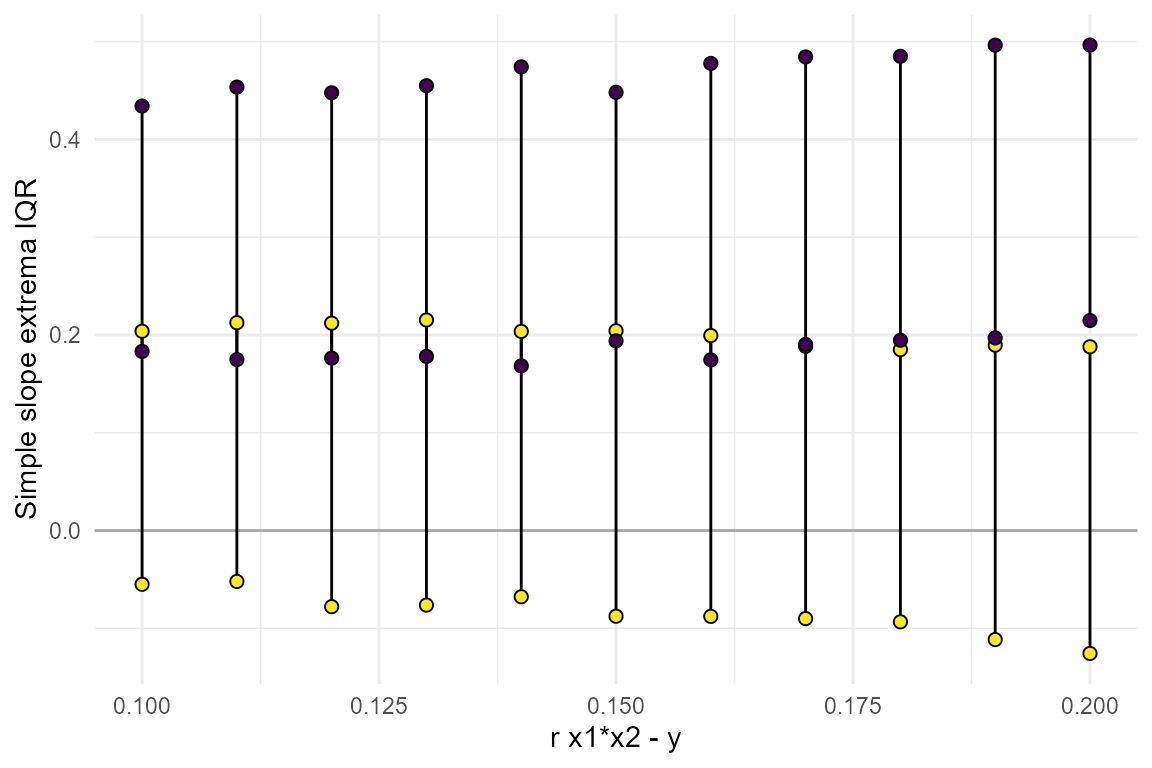
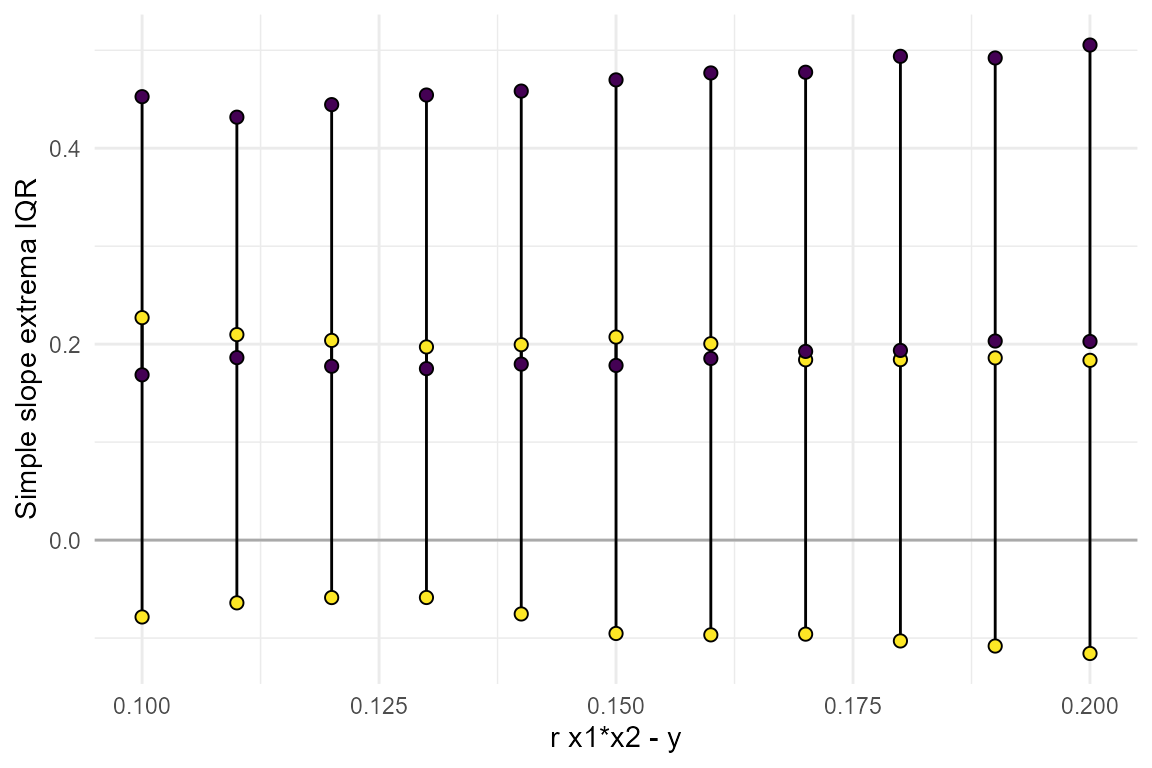
Update to 0.2.4

diff --git a/docs/authors.html b/docs/authors.html
@@ -16,7 +16,7 @@
     
     <a class="navbar-brand me-2" href="index.html">InteractionPoweR</a>
 
-    <small class="nav-text text-muted me-auto" data-bs-toggle="tooltip" data-bs-placement="bottom" title="">0.2.3</small>
+    <small class="nav-text text-muted me-auto" data-bs-toggle="tooltip" data-bs-placement="bottom" title="">0.2.4</small>
 
     
     <button class="navbar-toggler" type="button" data-bs-toggle="collapse" data-bs-target="#navbar" aria-controls="navbar" aria-expanded="false" aria-label="Toggle navigation">
@@ -109,6 +109,20 @@
   volume = {6},
   number = {3},
   year = {2023},
+}</pre>
+      <p>Castillo A, Miller JD, Vize CE, Baranger DAA, Lynam DR (2026).
+“When Do Interaction/Moderation Effects Stabilize in Linear Regression?”
+<em>Advances in Methods and Practices in Psychological Science</em>, <b>9</b>(1).
+<a href="https://doi.org/10.1177/25152459251407860" class="external-link">doi:10.1177/25152459251407860</a>. 
+</p>
+      <pre>@Article{,
+  author = {Andrew Castillo and Joshua D. Miller and Colin E. Vize and David A. A. Baranger and Donald R. Lynam},
+  doi = {10.1177/25152459251407860},
+  journal = {Advances in Methods and Practices in Psychological Science},
+  title = {When Do Interaction/Moderation Effects Stabilize in Linear Regression?},
+  volume = {9},
+  number = {1},
+  year = {2026},
 }</pre>
     </div>
   </main><aside class="col-md-3"><nav id="toc"><h2>On this page</h2>

diff --git a/docs/index.html b/docs/index.html
@@ -42,7 +42,7 @@
     
     <a class="navbar-brand me-2" href="index.html">InteractionPoweR</a>
 
-    <small class="nav-text text-muted me-auto" data-bs-toggle="tooltip" data-bs-placement="bottom" title="">0.2.3</small>
+    <small class="nav-text text-muted me-auto" data-bs-toggle="tooltip" data-bs-placement="bottom" title="">0.2.4</small>
 
     
     <button class="navbar-toggler" type="button" data-bs-toggle="collapse" data-bs-target="#navbar" aria-controls="navbar" aria-expanded="false" aria-label="Toggle navigation">
@@ -97,7 +97,7 @@
 <!-- badges: end -->
 <p>The <a href="https://dbaranger.github.io/InteractionPoweR/">InteractionPoweR</a> package conducts power analyses for regression models in cross-sectional data sets where the term of interest is an interaction between two or three variables, also known as ‘moderation’ analyses. The package includes functions for simulating data sets, conducting power analyses, conducting stability analyses, and plotting and interpreting results. Notable package features include (1) the ability to compute power for interactions between two continuous variables, (2) effect sizes are all specified as the cross-sectional Pearson’s correlation, (3) simulations do not assume that the interacting variables are independent, (4) any variable in the model, including the outcome, can have anywhere from 2 (i.e., binary) to 20 discrete values, and (5) analyses can incorporate the effects of reliability, both of the interacting variables, as well as of the outcome variable.</p>
 <p>Stability analyses for two-way interactions between continuous variables have been recently added. These include a new search function which returns the sample size or interaction effect size at which results stabilize.</p>
-<p><strong>For more information see our <a href="https://doi.org/10.1177/25152459231187531" class="external-link">tutorial paper</a>, the package <a href="https://dbaranger.github.io/InteractionPoweR/articles/articles/InteractionPoweRvignette.html">vignette</a>, and the <a href="https://dbaranger.github.io/InteractionPoweR/articles/articles/CommonQuestions.html">FAQ</a>.</strong></p>
+<p><strong>For more information see our <a href="https://doi.org/10.1177/25152459231187531" class="external-link">tutorial paper</a>, the package <a href="https://dbaranger.github.io/InteractionPoweR/articles/articles/InteractionPoweRvignette.html">vignette</a>, and the <a href="https://dbaranger.github.io/InteractionPoweR/articles/articles/CommonQuestions.html">FAQ</a>. Information on stability analyses can be found in our <a href="https://doi.org/10.1177/25152459251407860" class="external-link">new paper</a></strong></p>
 <p><strong>Web apps:</strong></p>
 <ul>
 <li>Simulation-based power 2-way: We have a <a href="https://mfinsaas.shinyapps.io/InteractionPoweR/" class="external-link"><strong>Shiny app</strong></a> which implements the major functions for simulation-based power analyses in a user-friendly point-and-click interface.</li>
@@ -143,7 +143,7 @@
 <div class="sourceCode" id="cb4"><pre class="downlit sourceCode r">
 <code class="sourceCode R"><span><span class="fu"><a href="https://rdrr.io/r/base/Random.html" class="external-link">set.seed</a></span><span class="op">(</span><span class="fl">2022</span><span class="op">)</span></span>
 <span><span class="va">test_power</span><span class="op">&lt;-</span><span class="fu"><a href="reference/power_interaction.html">power_interaction</a></span><span class="op">(</span></span>
-<span>  n.iter <span class="op">=</span> <span class="fl">10000</span>,            <span class="co"># number of simulations per unique combination of input parameters</span></span>
+<span>  n.iter <span class="op">=</span> <span class="fl">1000</span>,            <span class="co"># number of simulations per unique combination of input parameters</span></span>
 <span>  alpha <span class="op">=</span> <span class="fl">0.05</span>,             <span class="co"># alpha, for the power analysis</span></span>
 <span>  N <span class="op">=</span> <span class="fl">350</span>,                  <span class="co"># sample size</span></span>
 <span>  r.x1x2.y <span class="op">=</span> <span class="fl">.15</span>,           <span class="co"># interaction effect to test (correlation between x1*x2 and y)</span></span>
@@ -155,15 +155,17 @@
 <span><span class="op">)</span></span>
 <span></span>
 <span><span class="va">test_power</span></span>
-<span><span class="co">#&gt;     N    pwr</span></span>
-<span><span class="co">#&gt; 1 350 0.8086</span></span></code></pre></div>
+<span><span class="co">#&gt;     N   pwr</span></span>
+<span><span class="co">#&gt; 1 350 0.815</span></span></code></pre></div>
 <p>The simulation’s accuracy will increase with more iterations.</p>
 </div>
 <div class="section level2">
 <h2 id="citation">Citation<a class="anchor" aria-label="anchor" href="#citation"></a>
 </h2>
 <p>If you use <a href="https://dbaranger.github.io/InteractionPoweR/">InteractionPoweR</a> in a publication, please cite our <a href="https://doi.org/10.1177/25152459231187531" class="external-link">tutorial paper</a>:</p>
-<p>Baranger DAA, Finsaas MC, Goldstein BL, Vize CE, Lynam DR, Olino TM (2023). “Tutorial: Power analyses for interaction effects in cross-sectional regressions.” <em>Advances in Methods and Practices in Psychological Science</em>. 6(3). doi: <a href="https://doi.org/10.1177/25152459231187531" class="external-link">10.1177/25152459231187531</a></p>
+<p>Baranger DAA, Finsaas MC, Goldstein BL, Vize CE, Lynam DR, Olino TM. “Tutorial: Power analyses for interaction effects in cross-sectional regressions.” <em>Advances in Methods and Practices in Psychological Science</em>. 2023; 6(3). doi: <a href="https://doi.org/10.1177/25152459231187531" class="external-link">10.1177/25152459231187531</a></p>
+<p>If you use our stability analyses for interactions in a paper, please cite our <a href="https://doi.org/10.1177/25152459251407860" class="external-link">paper on stability</a>:</p>
+<p>Castillo A, Miller JD, Vize C, Baranger DAA, Lynam DR. “When Do Interaction/Moderation Effects Stabilize in Linear Regression?” <em>Advances in Methods and Practices in Psychological Science</em>. 2026; 9(1). doi: <a href="https://doi.org/10.1177/25152459251407860" class="external-link">10.1177/25152459251407860</a></p>
 </div>
 </div>
   </main><aside class="col-md-3"><div class="links">

diff --git a/docs/articles/InteractionPoweR_Stability.html b/docs/articles/InteractionPoweR_Stability.html
@@ -42,7 +42,7 @@
     
     <a class="navbar-brand me-2" href="../index.html">InteractionPoweR</a>
 
-    <small class="nav-text text-muted me-auto" data-bs-toggle="tooltip" data-bs-placement="bottom" title="">0.2.3</small>
+    <small class="nav-text text-muted me-auto" data-bs-toggle="tooltip" data-bs-placement="bottom" title="">0.2.4</small>
 
     
     <button class="navbar-toggler" type="button" data-bs-toggle="collapse" data-bs-target="#navbar" aria-controls="navbar" aria-expanded="false" aria-label="Toggle navigation">
@@ -333,13 +333,13 @@ first.</p>
 <pre><code><span><span class="co">##   single.N rel.x1 rel.x2  rel.x1x2 rel.y r.x1x2.y r.x1.y r.x2.y r.x1.x2</span></span>
 <span><span class="co">## 1      100    0.8    0.8 0.6435644     1     0.15    0.2    0.2     0.1</span></span>
 <span><span class="co">##   obs.r.x1x2.y COS_pos.percents     COS_interval within_COS_interval</span></span>
-<span><span class="co">## 1    0.1203337         (50, 80) [0.0602, 0.1805]               0.476</span></span>
+<span><span class="co">## 1    0.1203337         (50, 80) [0.0602, 0.1805]               0.447</span></span>
 <span><span class="co">##   POS_determined_COS within_POS_determined_COS POS_determined_COS.percent</span></span>
-<span><span class="co">## 1   [-0.013, 0.2536]                       0.8                     110.77</span></span>
+<span><span class="co">## 1  [-0.0094, 0.2501]                       0.8                     107.83</span></span>
 <span><span class="co">##   sign_error_rate     power r.x1x2.y_to_be_stable_at_single.N</span></span>
-<span><span class="co">## 1           0.128 0.2273492                         0.2995293</span></span>
+<span><span class="co">## 1           0.122 0.2273492                         0.2966025</span></span>
 <span><span class="co">##   power_to_be_stable</span></span>
-<span><span class="co">## 1           0.675739</span></span></code></pre>
+<span><span class="co">## 1          0.6672075</span></span></code></pre>
 <p>This output indicates that at N = 100, only ~47.3% of estimates fall
 within the specified COS of 50% around the expected interaction effect
 (0.1203, 0.15 before attenuation), suggesting the sample size is
@@ -427,7 +427,7 @@ if the reliability and correlations justify it.</p>
 <pre><code><span><span class="co">##   rel.x1 rel.x2  rel.x1x2 rel.y r.x1x2.y r.x1.y r.x2.y r.x1.x2 obs.r.x1x2.y</span></span>
 <span><span class="co">## 1    0.8    0.8 0.6435644     1     0.15    0.2    0.2     0.1    0.1203337</span></span>
 <span><span class="co">##   COS_pos.percents     COS_interval POS_samplesize POS_power</span></span>
-<span><span class="co">## 1         (50, 80) [0.0602, 0.1805]            421 0.7159145</span></span></code></pre>
+<span><span class="co">## 1         (50, 80) [0.0602, 0.1805]            423 0.7179701</span></span></code></pre>
 <p>This run performs a binary search to find the smallest N at which 80%
 of estimates fall within <span class="math inline">\(\pm 50\%\)</span>
 of the expected interaction effect size.</p>

diff --git a/docs/reference/test_interaction.html b/docs/reference/test_interaction.html
@@ -16,7 +16,7 @@
     
     <a class="navbar-brand me-2" href="../index.html">InteractionPoweR</a>
 
-    <small class="nav-text text-muted me-auto" data-bs-toggle="tooltip" data-bs-placement="bottom" title="">0.2.3</small>
+    <small class="nav-text text-muted me-auto" data-bs-toggle="tooltip" data-bs-placement="bottom" title="">0.2.4</small>
 
     
     <button class="navbar-toggler" type="button" data-bs-toggle="collapse" data-bs-target="#navbar" aria-controls="navbar" aria-expanded="false" aria-label="Toggle navigation">
@@ -112,10 +112,10 @@ If q=3 then the two slopes are y~x1 for the bottom 33% of x2, and the top 33% of
     <div class="sourceCode"><pre class="sourceCode r"><code><span class="r-in"><span><span class="va">dataset</span> <span class="op">&lt;-</span> <span class="fu"><a href="generate_interaction.html">generate_interaction</a></span><span class="op">(</span>N <span class="op">=</span> <span class="fl">250</span>,r.x1.y <span class="op">=</span> <span class="fl">0</span>,r.x2.y <span class="op">=</span> <span class="fl">.1</span>,r.x1x2.y <span class="op">=</span> <span class="op">-</span><span class="fl">.2</span>,r.x1.x2 <span class="op">=</span> <span class="fl">.3</span><span class="op">)</span></span></span>
 <span class="r-in"><span><span class="fu">test_interaction</span><span class="op">(</span>data <span class="op">=</span> <span class="va">dataset</span>, alpha<span class="op">=</span><span class="fl">0.05</span>, q<span class="op">=</span><span class="fl">2</span><span class="op">)</span></span></span>
 <span class="r-out co"><span class="r-pr">#&gt;</span> $linear.model</span>
-<span class="r-out co"><span class="r-pr">#&gt;</span>         Estimate Std. Error    t value     Pr(&gt;|t|)</span>
-<span class="r-out co"><span class="r-pr">#&gt;</span> x1    0.01066427 0.06508712  0.1638460 0.8699868878</span>
-<span class="r-out co"><span class="r-pr">#&gt;</span> x2    0.01803371 0.06508365  0.2770852 0.7819474049</span>
-<span class="r-out co"><span class="r-pr">#&gt;</span> x1x2 -0.22203629 0.06100056 -3.6399056 0.0003324027</span>
+<span class="r-out co"><span class="r-pr">#&gt;</span>          Estimate Std. Error     t value     Pr(&gt;|t|)</span>
+<span class="r-out co"><span class="r-pr">#&gt;</span> x1   -0.004107034 0.06399475 -0.06417767 9.488809e-01</span>
+<span class="r-out co"><span class="r-pr">#&gt;</span> x2    0.138731281 0.06390510  2.17089542 3.089570e-02</span>
+<span class="r-out co"><span class="r-pr">#&gt;</span> x1x2 -0.243264153 0.05884106 -4.13425839 4.887912e-05</span>
 <span class="r-out co"><span class="r-pr">#&gt;</span> </span>
 </code></pre></div>
     </div>

diff --git a/docs/reference/run_pos_power_search.html b/docs/reference/run_pos_power_search.html
@@ -16,7 +16,7 @@
     
     <a class="navbar-brand me-2" href="../index.html">InteractionPoweR</a>
 
-    <small class="nav-text text-muted me-auto" data-bs-toggle="tooltip" data-bs-placement="bottom" title="">0.2.3</small>
+    <small class="nav-text text-muted me-auto" data-bs-toggle="tooltip" data-bs-placement="bottom" title="">0.2.4</small>
 
     
     <button class="navbar-toggler" type="button" data-bs-toggle="collapse" data-bs-target="#navbar" aria-controls="navbar" aria-expanded="false" aria-label="Toggle navigation">
@@ -178,14 +178,9 @@ If the user inputs single.N as a numeric whole number greater than 3, the second
 
     <div class="section level2">
     <h2 id="ref-examples">Examples<a class="anchor" aria-label="anchor" href="#ref-examples"></a></h2>
-    <div class="sourceCode"><pre class="sourceCode r"><code><span class="r-in"><span><span class="fu">run_pos_power_search</span><span class="op">(</span>r.x1.y <span class="op">=</span> <span class="fl">0.2</span>, r.x2.y <span class="op">=</span> <span class="fl">0.2</span>, r.x1x2.y <span class="op">=</span> <span class="fl">0.15</span>, r.x1.x2 <span class="op">=</span> <span class="fl">0.1</span>,</span></span>
+    <div class="sourceCode"><pre class="sourceCode r"><code><span class="r-in"><span><span class="kw">if</span> <span class="op">(</span><span class="cn">FALSE</span><span class="op">)</span> <span class="fu">run_pos_power_search</span><span class="op">(</span>r.x1.y <span class="op">=</span> <span class="fl">0.2</span>, r.x2.y <span class="op">=</span> <span class="fl">0.2</span>, r.x1x2.y <span class="op">=</span> <span class="fl">0.15</span>, r.x1.x2 <span class="op">=</span> <span class="fl">0.1</span>,</span></span>
 <span class="r-in"><span>rel.x1 <span class="op">=</span> <span class="fl">0.8</span>, rel.x2 <span class="op">=</span> <span class="fl">0.8</span>,start.power <span class="op">=</span> <span class="fl">0.8</span>, step <span class="op">=</span> <span class="cn">NULL</span>, n.datasets <span class="op">=</span> <span class="fl">1000</span>,</span></span>
 <span class="r-in"><span>lower.bound <span class="op">=</span> <span class="cn">NULL</span>, upper.bound <span class="op">=</span> <span class="fl">500</span>, cos.width <span class="op">=</span> <span class="fl">0.5</span>, pos.percent <span class="op">=</span> <span class="fl">0.8</span><span class="op">)</span></span></span>
-<span class="r-msg co"><span class="r-pr">#&gt;</span> The sample size at the start.power of 0.8 is 515. Re-running the search with lower.bound set to 258 and upper bound set to 515. </span>
-<span class="r-out co"><span class="r-pr">#&gt;</span>   rel.x1 rel.x2  rel.x1x2 rel.y r.x1x2.y r.x1.y r.x2.y r.x1.x2 obs.r.x1x2.y</span>
-<span class="r-out co"><span class="r-pr">#&gt;</span> 1    0.8    0.8 0.6435644     1     0.15    0.2    0.2     0.1    0.1203337</span>
-<span class="r-out co"><span class="r-pr">#&gt;</span>   COS_pos.percents     COS_interval POS_samplesize POS_power</span>
-<span class="r-out co"><span class="r-pr">#&gt;</span> 1         (50, 80) [0.0602, 0.1805]            459 0.7529432</span>
 </code></pre></div>
     </div>
   </main><aside class="col-md-3"><nav id="toc"><h2>On this page</h2>

diff --git a/docs/reference/power_interaction_3way_r2.html b/docs/reference/power_interaction_3way_r2.html
@@ -1,5 +1,5 @@
 <!DOCTYPE html>
-<!-- Generated by pkgdown: do not edit by hand --><html lang="en"><head><meta http-equiv="Content-Type" content="text/html; charset=UTF-8"><meta charset="utf-8"><meta http-equiv="X-UA-Compatible" content="IE=edge"><meta name="viewport" content="width=device-width, initial-scale=1, shrink-to-fit=no"><meta name="description" content="Power analysis for 3-way interaction models, computed via change in R2. Valid for interactions with continuous, normally distributed, variables. Either b.x1x2x3 or f2 can be used to specify the magnitude of the interaction effect size."><title>Analytic power analysis for 3-way interactions — power_interaction_3way_r2 • InteractionPoweR</title><!-- favicons --><link rel="icon" type="image/png" sizes="16x16" href="../favicon-16x16.png"><link rel="icon" type="image/png" sizes="32x32" href="../favicon-32x32.png"><link rel="apple-touch-icon" type="image/png" sizes="180x180" href="../apple-touch-icon.png"><link rel="apple-touch-icon" type="image/png" sizes="120x120" href="../apple-touch-icon-120x120.png"><link rel="apple-touch-icon" type="image/png" sizes="76x76" href="../apple-touch-icon-76x76.png"><link rel="apple-touch-icon" type="image/png" sizes="60x60" href="../apple-touch-icon-60x60.png"><script src="../deps/jquery-3.6.0/jquery-3.6.0.min.js"></script><meta name="viewport" content="width=device-width, initial-scale=1, shrink-to-fit=no"><link href="../deps/bootstrap-5.3.1/bootstrap.min.css" rel="stylesheet"><script src="../deps/bootstrap-5.3.1/bootstrap.bundle.min.js"></script><!-- Font Awesome icons --><link rel="stylesheet" href="https://cdnjs.cloudflare.com/ajax/libs/font-awesome/5.12.1/css/all.min.css" integrity="sha256-mmgLkCYLUQbXn0B1SRqzHar6dCnv9oZFPEC1g1cwlkk=" crossorigin="anonymous"><link rel="stylesheet" href="https://cdnjs.cloudflare.com/ajax/libs/font-awesome/5.12.1/css/v4-shims.min.css" integrity="sha256-wZjR52fzng1pJHwx4aV2AO3yyTOXrcDW7jBpJtTwVxw=" crossorigin="anonymous"><!-- bootstrap-toc --><script src="https://cdn.jsdelivr.net/gh/afeld/bootstrap-toc@v1.0.1/dist/bootstrap-toc.min.js" integrity="sha256-4veVQbu7//Lk5TSmc7YV48MxtMy98e26cf5MrgZYnwo=" crossorigin="anonymous"></script><!-- headroom.js --><script src="https://cdnjs.cloudflare.com/ajax/libs/headroom/0.11.0/headroom.min.js" integrity="sha256-AsUX4SJE1+yuDu5+mAVzJbuYNPHj/WroHuZ8Ir/CkE0=" crossorigin="anonymous"></script><script src="https://cdnjs.cloudflare.com/ajax/libs/headroom/0.11.0/jQuery.headroom.min.js" integrity="sha256-ZX/yNShbjqsohH1k95liqY9Gd8uOiE1S4vZc+9KQ1K4=" crossorigin="anonymous"></script><!-- clipboard.js --><script src="https://cdnjs.cloudflare.com/ajax/libs/clipboard.js/2.0.6/clipboard.min.js" integrity="sha256-inc5kl9MA1hkeYUt+EC3BhlIgyp/2jDIyBLS6k3UxPI=" crossorigin="anonymous"></script><!-- search --><script src="https://cdnjs.cloudflare.com/ajax/libs/fuse.js/6.4.6/fuse.js" integrity="sha512-zv6Ywkjyktsohkbp9bb45V6tEMoWhzFzXis+LrMehmJZZSys19Yxf1dopHx7WzIKxr5tK2dVcYmaCk2uqdjF4A==" crossorigin="anonymous"></script><script src="https://cdnjs.cloudflare.com/ajax/libs/autocomplete.js/0.38.0/autocomplete.jquery.min.js" integrity="sha512-GU9ayf+66Xx2TmpxqJpliWbT5PiGYxpaG8rfnBEk1LL8l1KGkRShhngwdXK1UgqhAzWpZHSiYPc09/NwDQIGyg==" crossorigin="anonymous"></script><script src="https://cdnjs.cloudflare.com/ajax/libs/mark.js/8.11.1/mark.min.js" integrity="sha512-5CYOlHXGh6QpOFA/TeTylKLWfB3ftPsde7AnmhuitiTX4K5SqCLBeKro6sPS8ilsz1Q4NRx3v8Ko2IBiszzdww==" crossorigin="anonymous"></script><!-- pkgdown --><script src="../pkgdown.js"></script><meta property="og:title" content="Analytic power analysis for 3-way interactions — power_interaction_3way_r2"><meta property="og:description" content="Power analysis for 3-way interaction models, computed via change in R2. Valid for interactions with continuous, normally distributed, variables. Either b.x1x2x3 or f2 can be used to specify the magnitude of the interaction effect size."><meta property="og:image" content="https://dbaranger.github.io/InteractionPoweR/logo.png"><meta name="twitter:card" content="summary"><meta name="twitter:creator" content="@David_Baranger"><meta name="twitter:site" content="@David_Baranger"><!-- mathjax --><script src="https://cdnjs.cloudflare.com/ajax/libs/mathjax/2.7.5/MathJax.js" integrity="sha256-nvJJv9wWKEm88qvoQl9ekL2J+k/RWIsaSScxxlsrv8k=" crossorigin="anonymous"></script><script src="https://cdnjs.cloudflare.com/ajax/libs/mathjax/2.7.5/config/TeX-AMS-MML_HTMLorMML.js" integrity="sha256-84DKXVJXs0/F8OTMzX4UR909+jtl4G7SPypPavF+GfA=" crossorigin="anonymous"></script><!--[if lt IE 9]>
+<!-- Generated by pkgdown: do not edit by hand --><html lang="en"><head><meta http-equiv="Content-Type" content="text/html; charset=UTF-8"><meta charset="utf-8"><meta http-equiv="X-UA-Compatible" content="IE=edge"><meta name="viewport" content="width=device-width, initial-scale=1, shrink-to-fit=no"><meta name="description" content="Power analysis for 3-way interaction models, computed via change in R2. Valid for interactions with continuous, normally distributed, variables. b.x1x2x3 is used to specify the magnitude of the interaction effect size."><title>Analytic power analysis for 3-way interactions — power_interaction_3way_r2 • InteractionPoweR</title><!-- favicons --><link rel="icon" type="image/png" sizes="16x16" href="../favicon-16x16.png"><link rel="icon" type="image/png" sizes="32x32" href="../favicon-32x32.png"><link rel="apple-touch-icon" type="image/png" sizes="180x180" href="../apple-touch-icon.png"><link rel="apple-touch-icon" type="image/png" sizes="120x120" href="../apple-touch-icon-120x120.png"><link rel="apple-touch-icon" type="image/png" sizes="76x76" href="../apple-touch-icon-76x76.png"><link rel="apple-touch-icon" type="image/png" sizes="60x60" href="../apple-touch-icon-60x60.png"><script src="../deps/jquery-3.6.0/jquery-3.6.0.min.js"></script><meta name="viewport" content="width=device-width, initial-scale=1, shrink-to-fit=no"><link href="../deps/bootstrap-5.3.1/bootstrap.min.css" rel="stylesheet"><script src="../deps/bootstrap-5.3.1/bootstrap.bundle.min.js"></script><!-- Font Awesome icons --><link rel="stylesheet" href="https://cdnjs.cloudflare.com/ajax/libs/font-awesome/5.12.1/css/all.min.css" integrity="sha256-mmgLkCYLUQbXn0B1SRqzHar6dCnv9oZFPEC1g1cwlkk=" crossorigin="anonymous"><link rel="stylesheet" href="https://cdnjs.cloudflare.com/ajax/libs/font-awesome/5.12.1/css/v4-shims.min.css" integrity="sha256-wZjR52fzng1pJHwx4aV2AO3yyTOXrcDW7jBpJtTwVxw=" crossorigin="anonymous"><!-- bootstrap-toc --><script src="https://cdn.jsdelivr.net/gh/afeld/bootstrap-toc@v1.0.1/dist/bootstrap-toc.min.js" integrity="sha256-4veVQbu7//Lk5TSmc7YV48MxtMy98e26cf5MrgZYnwo=" crossorigin="anonymous"></script><!-- headroom.js --><script src="https://cdnjs.cloudflare.com/ajax/libs/headroom/0.11.0/headroom.min.js" integrity="sha256-AsUX4SJE1+yuDu5+mAVzJbuYNPHj/WroHuZ8Ir/CkE0=" crossorigin="anonymous"></script><script src="https://cdnjs.cloudflare.com/ajax/libs/headroom/0.11.0/jQuery.headroom.min.js" integrity="sha256-ZX/yNShbjqsohH1k95liqY9Gd8uOiE1S4vZc+9KQ1K4=" crossorigin="anonymous"></script><!-- clipboard.js --><script src="https://cdnjs.cloudflare.com/ajax/libs/clipboard.js/2.0.6/clipboard.min.js" integrity="sha256-inc5kl9MA1hkeYUt+EC3BhlIgyp/2jDIyBLS6k3UxPI=" crossorigin="anonymous"></script><!-- search --><script src="https://cdnjs.cloudflare.com/ajax/libs/fuse.js/6.4.6/fuse.js" integrity="sha512-zv6Ywkjyktsohkbp9bb45V6tEMoWhzFzXis+LrMehmJZZSys19Yxf1dopHx7WzIKxr5tK2dVcYmaCk2uqdjF4A==" crossorigin="anonymous"></script><script src="https://cdnjs.cloudflare.com/ajax/libs/autocomplete.js/0.38.0/autocomplete.jquery.min.js" integrity="sha512-GU9ayf+66Xx2TmpxqJpliWbT5PiGYxpaG8rfnBEk1LL8l1KGkRShhngwdXK1UgqhAzWpZHSiYPc09/NwDQIGyg==" crossorigin="anonymous"></script><script src="https://cdnjs.cloudflare.com/ajax/libs/mark.js/8.11.1/mark.min.js" integrity="sha512-5CYOlHXGh6QpOFA/TeTylKLWfB3ftPsde7AnmhuitiTX4K5SqCLBeKro6sPS8ilsz1Q4NRx3v8Ko2IBiszzdww==" crossorigin="anonymous"></script><!-- pkgdown --><script src="../pkgdown.js"></script><meta property="og:title" content="Analytic power analysis for 3-way interactions — power_interaction_3way_r2"><meta property="og:description" content="Power analysis for 3-way interaction models, computed via change in R2. Valid for interactions with continuous, normally distributed, variables. b.x1x2x3 is used to specify the magnitude of the interaction effect size."><meta property="og:image" content="https://dbaranger.github.io/InteractionPoweR/logo.png"><meta name="twitter:card" content="summary"><meta name="twitter:creator" content="@David_Baranger"><meta name="twitter:site" content="@David_Baranger"><!-- mathjax --><script src="https://cdnjs.cloudflare.com/ajax/libs/mathjax/2.7.5/MathJax.js" integrity="sha256-nvJJv9wWKEm88qvoQl9ekL2J+k/RWIsaSScxxlsrv8k=" crossorigin="anonymous"></script><script src="https://cdnjs.cloudflare.com/ajax/libs/mathjax/2.7.5/config/TeX-AMS-MML_HTMLorMML.js" integrity="sha256-84DKXVJXs0/F8OTMzX4UR909+jtl4G7SPypPavF+GfA=" crossorigin="anonymous"></script><!--[if lt IE 9]>
 <script src="https://oss.maxcdn.com/html5shiv/3.7.3/html5shiv.min.js"></script>
 <script src="https://oss.maxcdn.com/respond/1.4.2/respond.min.js"></script>
 <![endif]--><!-- Global site tag (gtag.js) - Google Analytics --><script async src="https://www.googletagmanager.com/gtag/js?id=G-36JVDTC1K0"></script><script>
@@ -16,7 +16,7 @@
     
     <a class="navbar-brand me-2" href="../index.html">InteractionPoweR</a>
 
-    <small class="nav-text text-muted me-auto" data-bs-toggle="tooltip" data-bs-placement="bottom" title="">0.2.3</small>
+    <small class="nav-text text-muted me-auto" data-bs-toggle="tooltip" data-bs-placement="bottom" title="">0.2.4</small>
 
     
     <button class="navbar-toggler" type="button" data-bs-toggle="collapse" data-bs-target="#navbar" aria-controls="navbar" aria-expanded="false" aria-label="Toggle navigation">
@@ -62,7 +62,7 @@
     </div>
 
     <div class="ref-description section level2">
-    <p>Power analysis for 3-way interaction models, computed via change in R2. Valid for interactions with continuous, normally distributed, variables. Either <code>b.x1x2x3</code> or <code>f2</code> can be used to specify the magnitude of the interaction effect size.</p>
+    <p>Power analysis for 3-way interaction models, computed via change in R2. Valid for interactions with continuous, normally distributed, variables. <code>b.x1x2x3</code> is used to specify the magnitude of the interaction effect size.</p>
     </div>
 
     <div class="section level2">
@@ -96,7 +96,7 @@
 
 
 <dt>b.x1x2x3</dt>
-<dd><p>Regression coefficient of the 3-way interaction term x1x2x3. Should not be specified if <code>f2</code> is specified. Must be between -1 and 1. Default is NULL. Can be a single value or a vector of values.</p></dd>
+<dd><p>Regression coefficient of the 3-way interaction term x1x2x3.Must be between -1 and 1. Default is NULL. Can be a single value or a vector of values.</p></dd>
 
 
 <dt>r.x1.y</dt>

diff --git a/docs/news/index.html b/docs/news/index.html
@@ -16,7 +16,7 @@
     
     <a class="navbar-brand me-2" href="../index.html">InteractionPoweR</a>
 
-    <small class="nav-text text-muted me-auto" data-bs-toggle="tooltip" data-bs-placement="bottom" title="">0.2.3</small>
+    <small class="nav-text text-muted me-auto" data-bs-toggle="tooltip" data-bs-placement="bottom" title="">0.2.4</small>
 
     
     <button class="navbar-toggler" type="button" data-bs-toggle="collapse" data-bs-target="#navbar" aria-controls="navbar" aria-expanded="false" aria-label="Toggle navigation">
@@ -60,6 +60,10 @@
       <small>Source: <a href="https://github.com/dbaranger/InteractionPoweR/blob/HEAD/NEWS.md" class="external-link"><code>NEWS.md</code></a></small>
     </div>
 
+    <div class="section level2">
+<h2 class="pkg-version" data-toc-text="0.2.4" id="interactionpower-024">InteractionPoweR 0.2.4<a class="anchor" aria-label="anchor" href="#interactionpower-024"></a></h2>
+<ul><li>Adds citation information and minor bug fixes.</li>
+</ul></div>
     <div class="section level2">
 <h2 class="pkg-version" data-toc-text="0.2.3" id="interactionpower-023">InteractionPoweR 0.2.3<a class="anchor" aria-label="anchor" href="#interactionpower-023"></a></h2>
 <ul><li>Adds two-way interaction stability function - <code><a href="../reference/run_pos_power_search.html">run_pos_power_search()</a></code>.</li>

diff --git a/docs/404.html b/docs/404.html
@@ -40,7 +40,7 @@
     
     <a class="navbar-brand me-2" href="https://dbaranger.github.io/InteractionPoweR/index.html">InteractionPoweR</a>
 
-    <small class="nav-text text-muted me-auto" data-bs-toggle="tooltip" data-bs-placement="bottom" title="">0.2.3</small>
+    <small class="nav-text text-muted me-auto" data-bs-toggle="tooltip" data-bs-placement="bottom" title="">0.2.4</small>
 
     
     <button class="navbar-toggler" type="button" data-bs-toggle="collapse" data-bs-target="#navbar" aria-controls="navbar" aria-expanded="false" aria-label="Toggle navigation">

diff --git a/docs/LICENSE.html b/docs/LICENSE.html
@@ -16,7 +16,7 @@
     
     <a class="navbar-brand me-2" href="index.html">InteractionPoweR</a>
 
-    <small class="nav-text text-muted me-auto" data-bs-toggle="tooltip" data-bs-placement="bottom" title="">0.2.3</small>
+    <small class="nav-text text-muted me-auto" data-bs-toggle="tooltip" data-bs-placement="bottom" title="">0.2.4</small>
 
     
     <button class="navbar-toggler" type="button" data-bs-toggle="collapse" data-bs-target="#navbar" aria-controls="navbar" aria-expanded="false" aria-label="Toggle navigation">

diff --git a/docs/articles/CommonQuestions.html b/docs/articles/CommonQuestions.html
@@ -42,7 +42,7 @@
     
     <a class="navbar-brand me-2" href="../index.html">InteractionPoweR</a>
 
-    <small class="nav-text text-muted me-auto" data-bs-toggle="tooltip" data-bs-placement="bottom" title="">0.2.3</small>
+    <small class="nav-text text-muted me-auto" data-bs-toggle="tooltip" data-bs-placement="bottom" title="">0.2.4</small>
 
     
     <button class="navbar-toggler" type="button" data-bs-toggle="collapse" data-bs-target="#navbar" aria-controls="navbar" aria-expanded="false" aria-label="Toggle navigation">

diff --git a/docs/articles/InteractionPoweR3wayvignette.html b/docs/articles/InteractionPoweR3wayvignette.html
@@ -42,7 +42,7 @@
     
     <a class="navbar-brand me-2" href="../index.html">InteractionPoweR</a>
 
-    <small class="nav-text text-muted me-auto" data-bs-toggle="tooltip" data-bs-placement="bottom" title="">0.2.3</small>
+    <small class="nav-text text-muted me-auto" data-bs-toggle="tooltip" data-bs-placement="bottom" title="">0.2.4</small>
 
     
     <button class="navbar-toggler" type="button" data-bs-toggle="collapse" data-bs-target="#navbar" aria-controls="navbar" aria-expanded="false" aria-label="Toggle navigation">

diff --git a/docs/articles/InteractionPoweRvignette.html b/docs/articles/InteractionPoweRvignette.html
@@ -42,7 +42,7 @@
     
     <a class="navbar-brand me-2" href="../index.html">InteractionPoweR</a>
 
-    <small class="nav-text text-muted me-auto" data-bs-toggle="tooltip" data-bs-placement="bottom" title="">0.2.3</small>
+    <small class="nav-text text-muted me-auto" data-bs-toggle="tooltip" data-bs-placement="bottom" title="">0.2.4</small>
 
     
     <button class="navbar-toggler" type="button" data-bs-toggle="collapse" data-bs-target="#navbar" aria-controls="navbar" aria-expanded="false" aria-label="Toggle navigation">